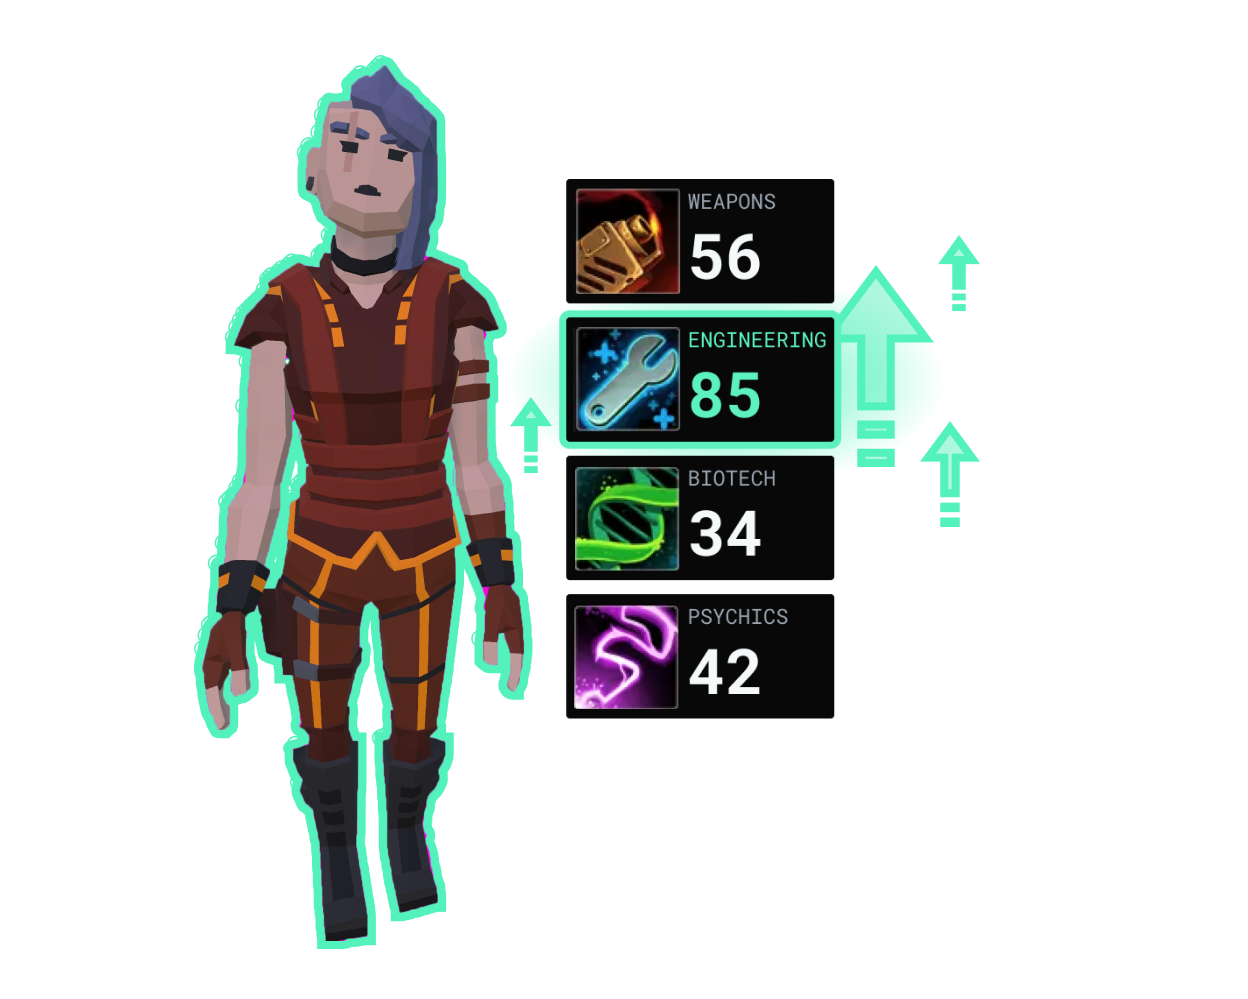
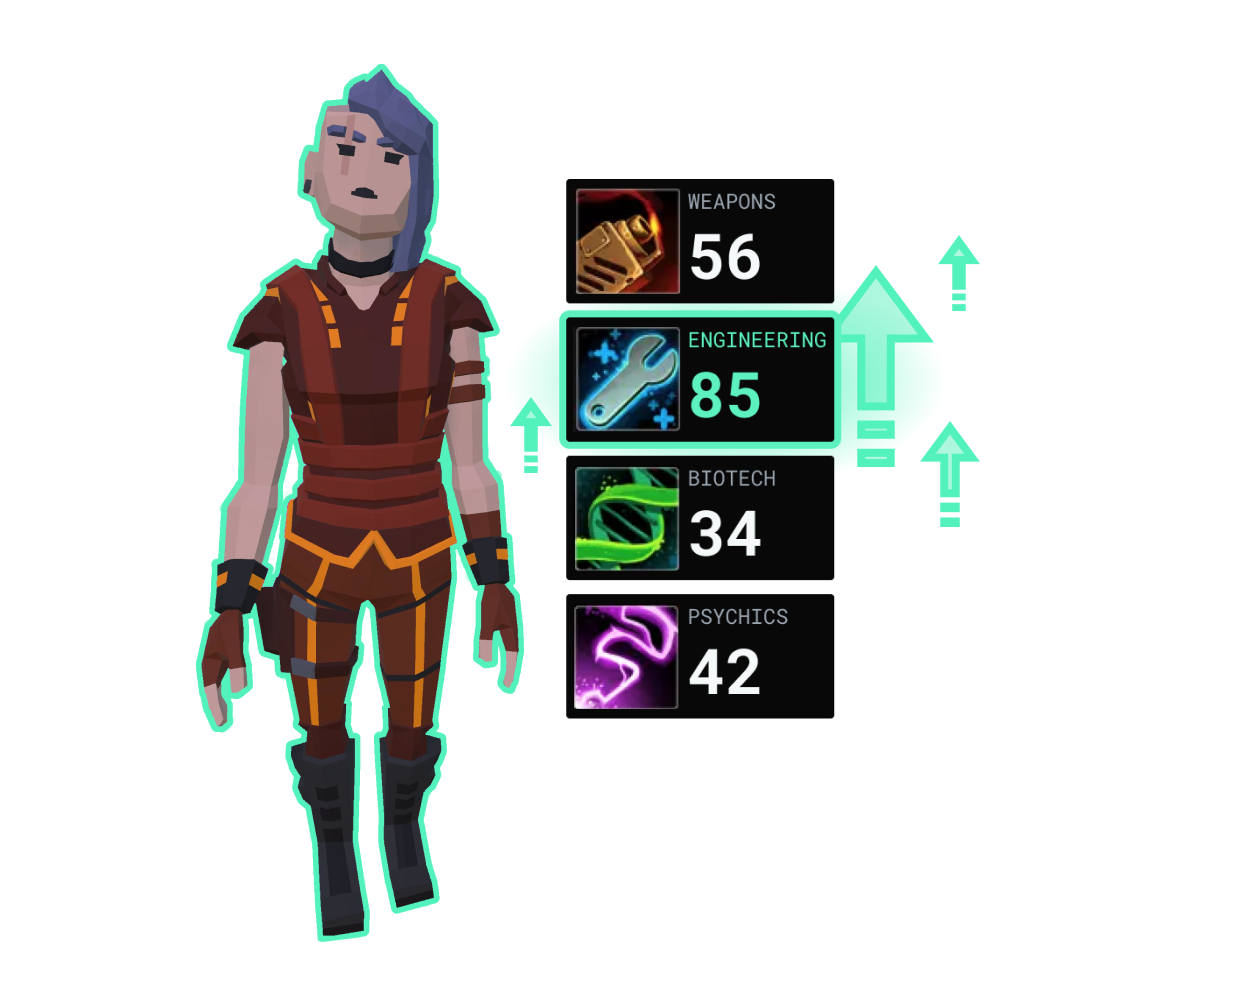
imagery update

Changed region(s): [[0.1562, 0.0621, 0.4375, 0.962]]

diff --git a/Webapp/src/pages/index.tsx b/Webapp/src/pages/index.tsx
@@ -220,7 +220,7 @@ const IndexPage = () => {
           cta="Mint"
           title="Collect Unique Heroes"
           backgroundImg="images/collect_bg.png"
-          mainImg="collect.png"
+          mainImg="collectv2.png"
           visible="grid"
           secondaryImage="images/logo_icon.png"
           secondaryTitle="Based on secretNFTs"
@@ -242,7 +242,7 @@ const IndexPage = () => {
           cta="Win"
           title="Build the Best Hero"
           backgroundImg="images/build_bg.png"
-          mainImg="build.png"
+          mainImg="buildv2.png"
         />
       </div>
       <section css={css`
